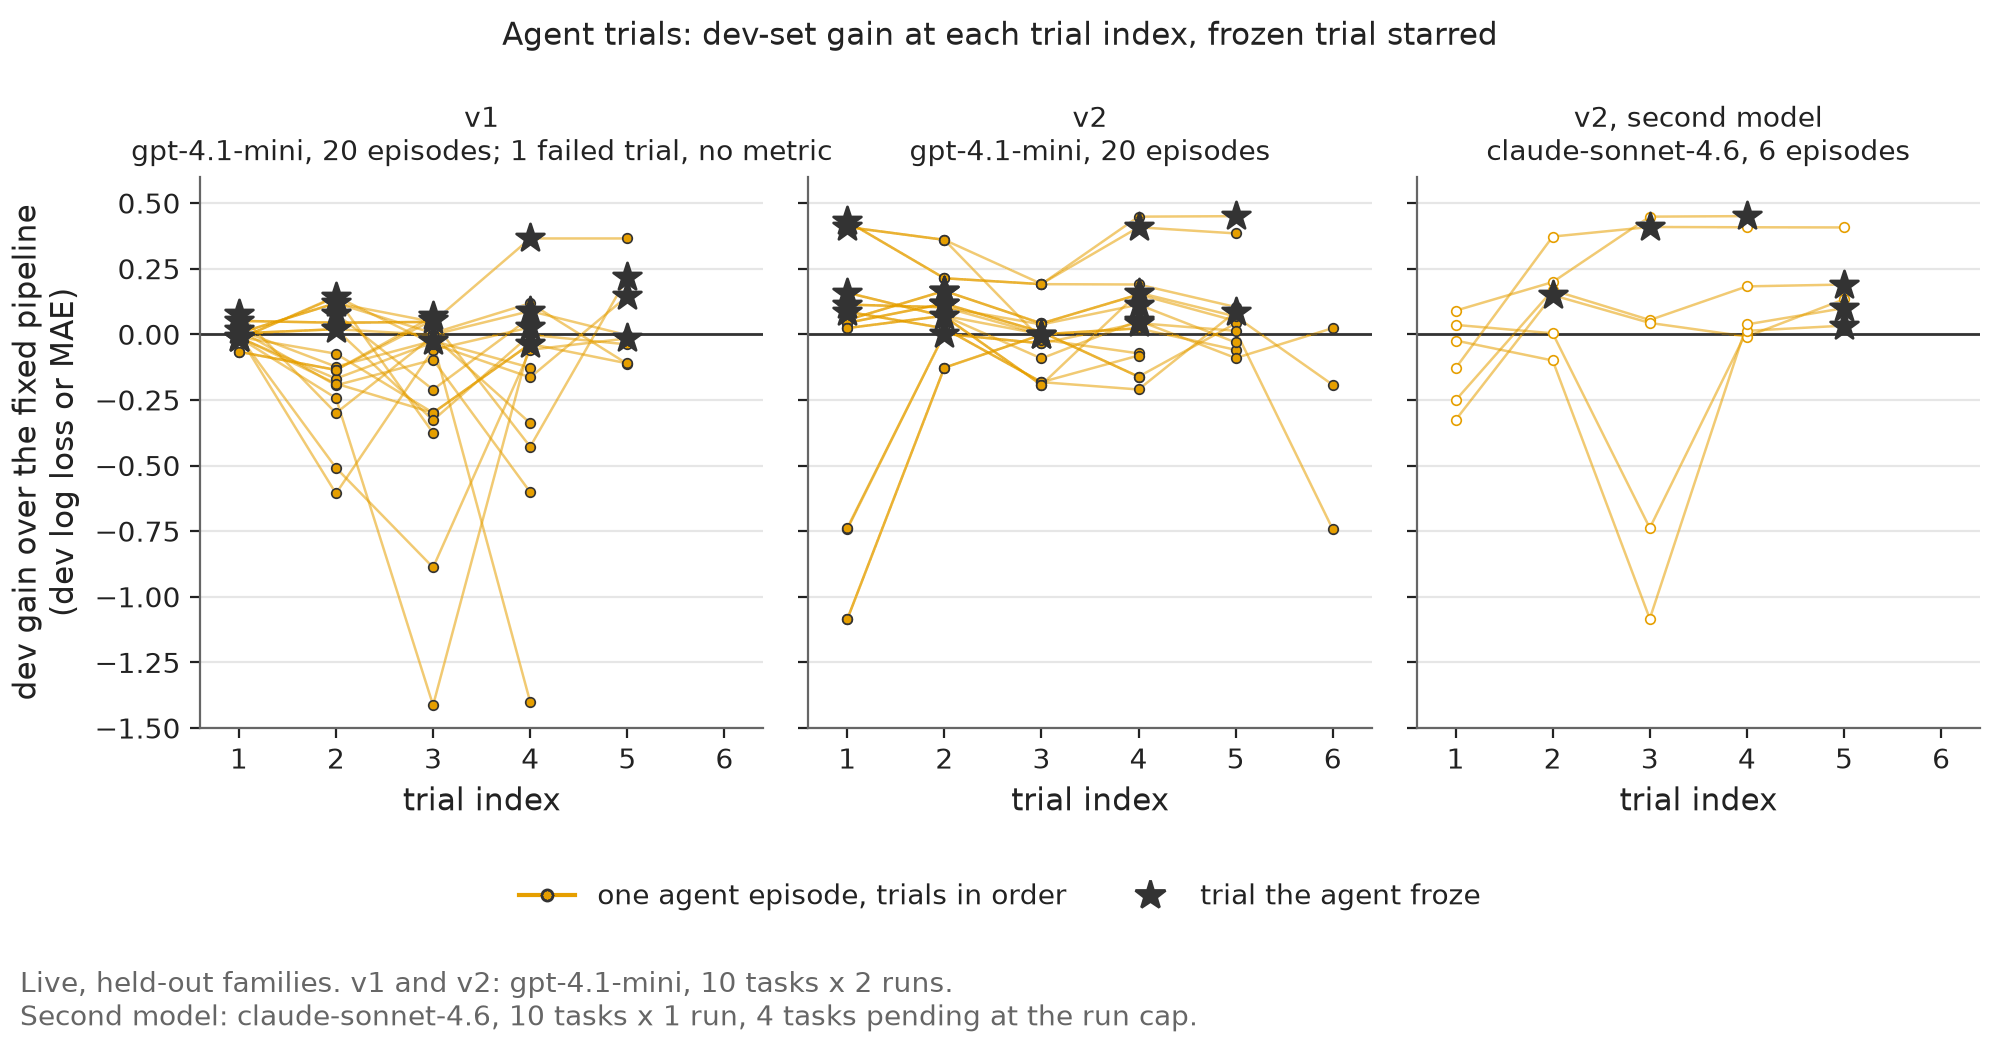
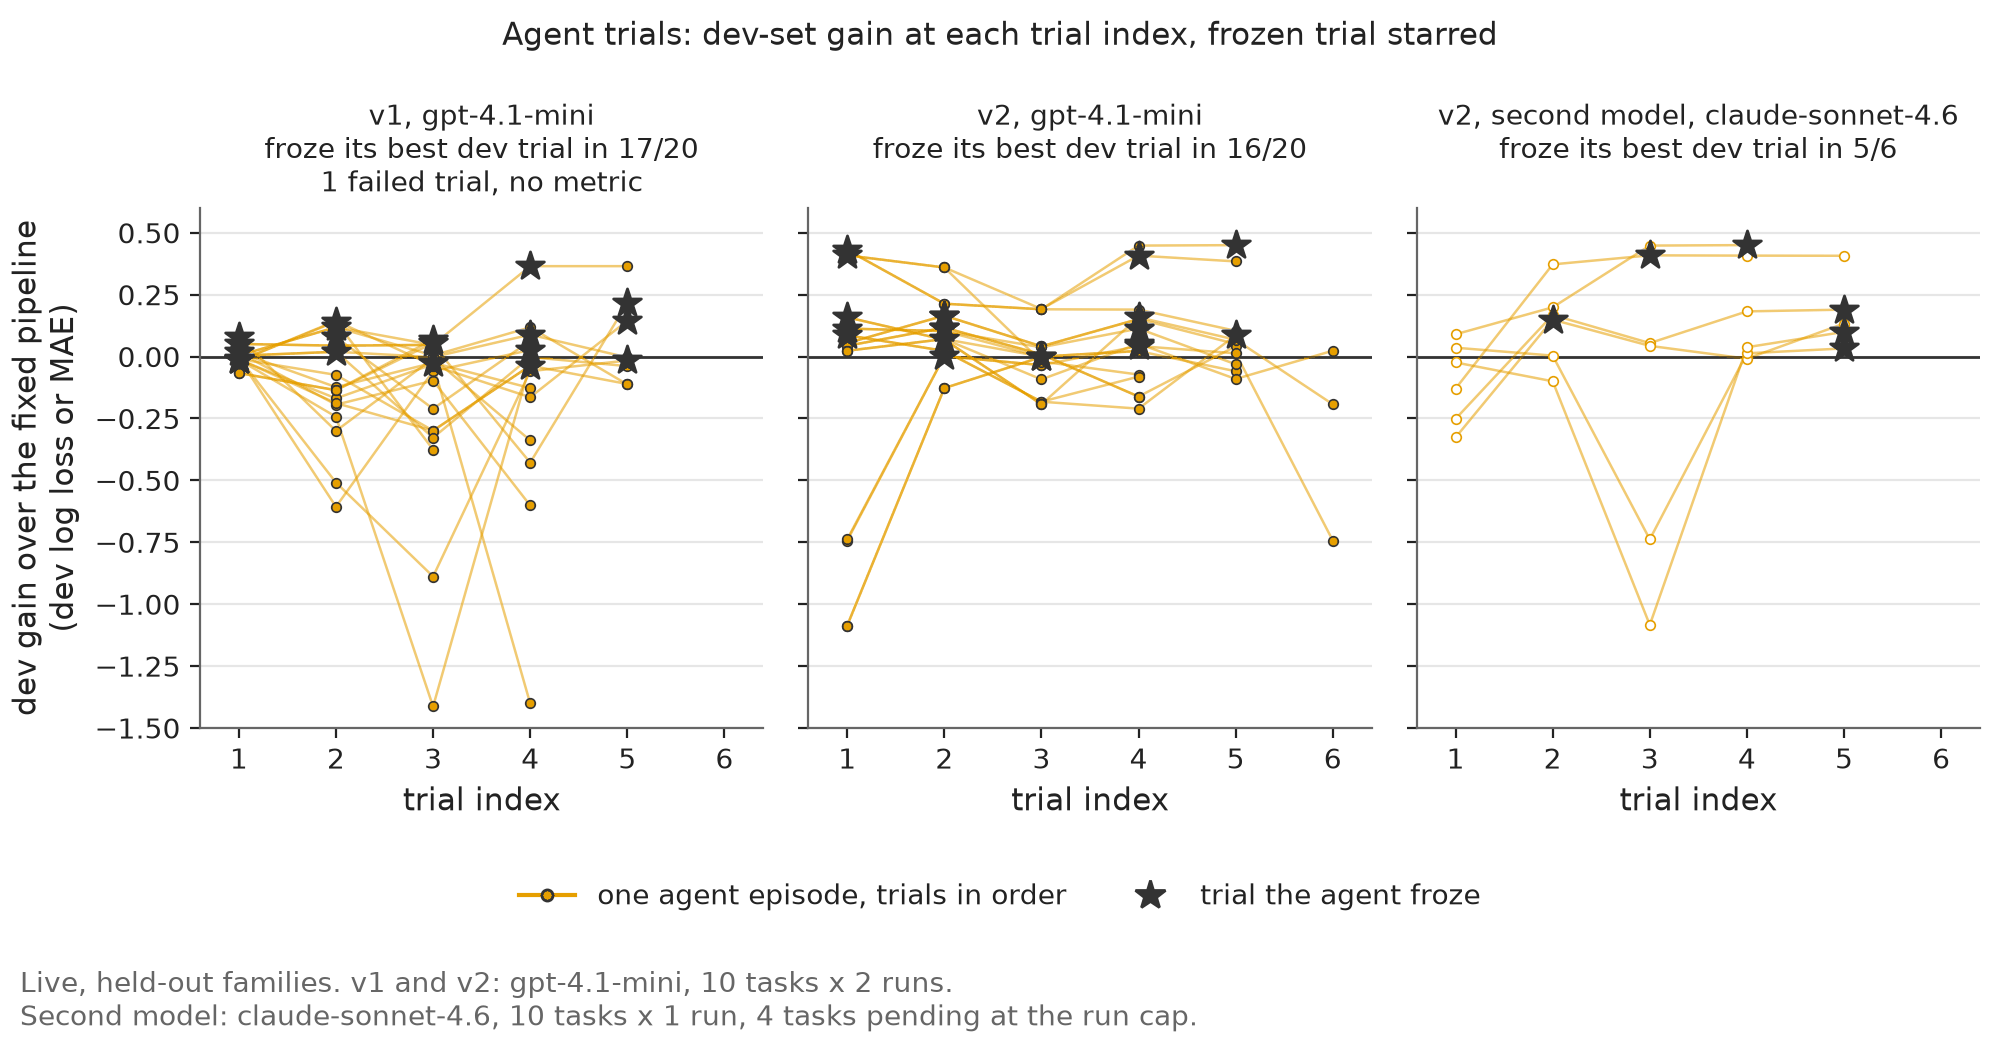
feat: show how often the agent froze its best dev trial in the trajectory figure

diff --git a/scripts/make_figures.py b/scripts/make_figures.py
@@ -280,6 +280,7 @@ def trial_trajectories(out: Path) -> None:
     for ax, (name, _, group, model, second) in zip(axes, SETS, strict=True):
         episodes, frozen = dev_gain_by_trial(name)
         n_fail = 0
+        n_best = 0
         for key in sorted(episodes):
             pts = sorted(episodes[key])
             ok = [(i, v) for i, v in pts if v is not None]
@@ -305,13 +306,17 @@ def trial_trajectories(out: Path) -> None:
             hit = [(i, v) for i, v in ok if fid and i == int(fid[1:])]
             if hit:
                 ax.scatter([hit[0][0]], [hit[0][1]], marker="*", s=110, color=fs.EDGE, zorder=4)
+                n_best += hit[0][0] == max(ok, key=lambda t: t[1])[0]
         ax.axhline(0, color=fs.EDGE, linewidth=1.0, zorder=1)
         ax.set_xticks(range(1, 7))
         ax.set_xlim(0.6, 6.4)
         ax.set_ylim(-1.5, 0.6)
         ax.set_xlabel("trial index")
-        extra = f"; {n_fail} failed trial, no metric" if n_fail else ""
-        ax.set_title(f"{group}\n{model}, {len(episodes)} episodes{extra}", fontsize=10)
+        extra = f"\n{n_fail} failed trial, no metric" if n_fail else "\n "
+        ax.set_title(
+            f"{group}, {model}\nfroze its best dev trial in {n_best}/{len(episodes)}{extra}",
+            fontsize=10,
+        )
     axes[0].set_ylabel("dev gain over the fixed pipeline\n(dev log loss or MAE)")
     handles = [
         Line2D(
@@ -340,7 +345,7 @@ def trial_trajectories(out: Path) -> None:
         "Agent trials: dev-set gain at each trial index, frozen trial starred", fontsize=11
     )
     fig.text(0.01, 0.005, SAMPLE, fontsize=10, color=fs.MUTED, va="bottom")
-    fig.subplots_adjust(left=0.1, right=0.99, top=0.83, bottom=0.3, wspace=0.08)
+    fig.subplots_adjust(left=0.1, right=0.99, top=0.8, bottom=0.3, wspace=0.08)
     fs.save(fig, out / "trial_trajectories.png")
 
 
